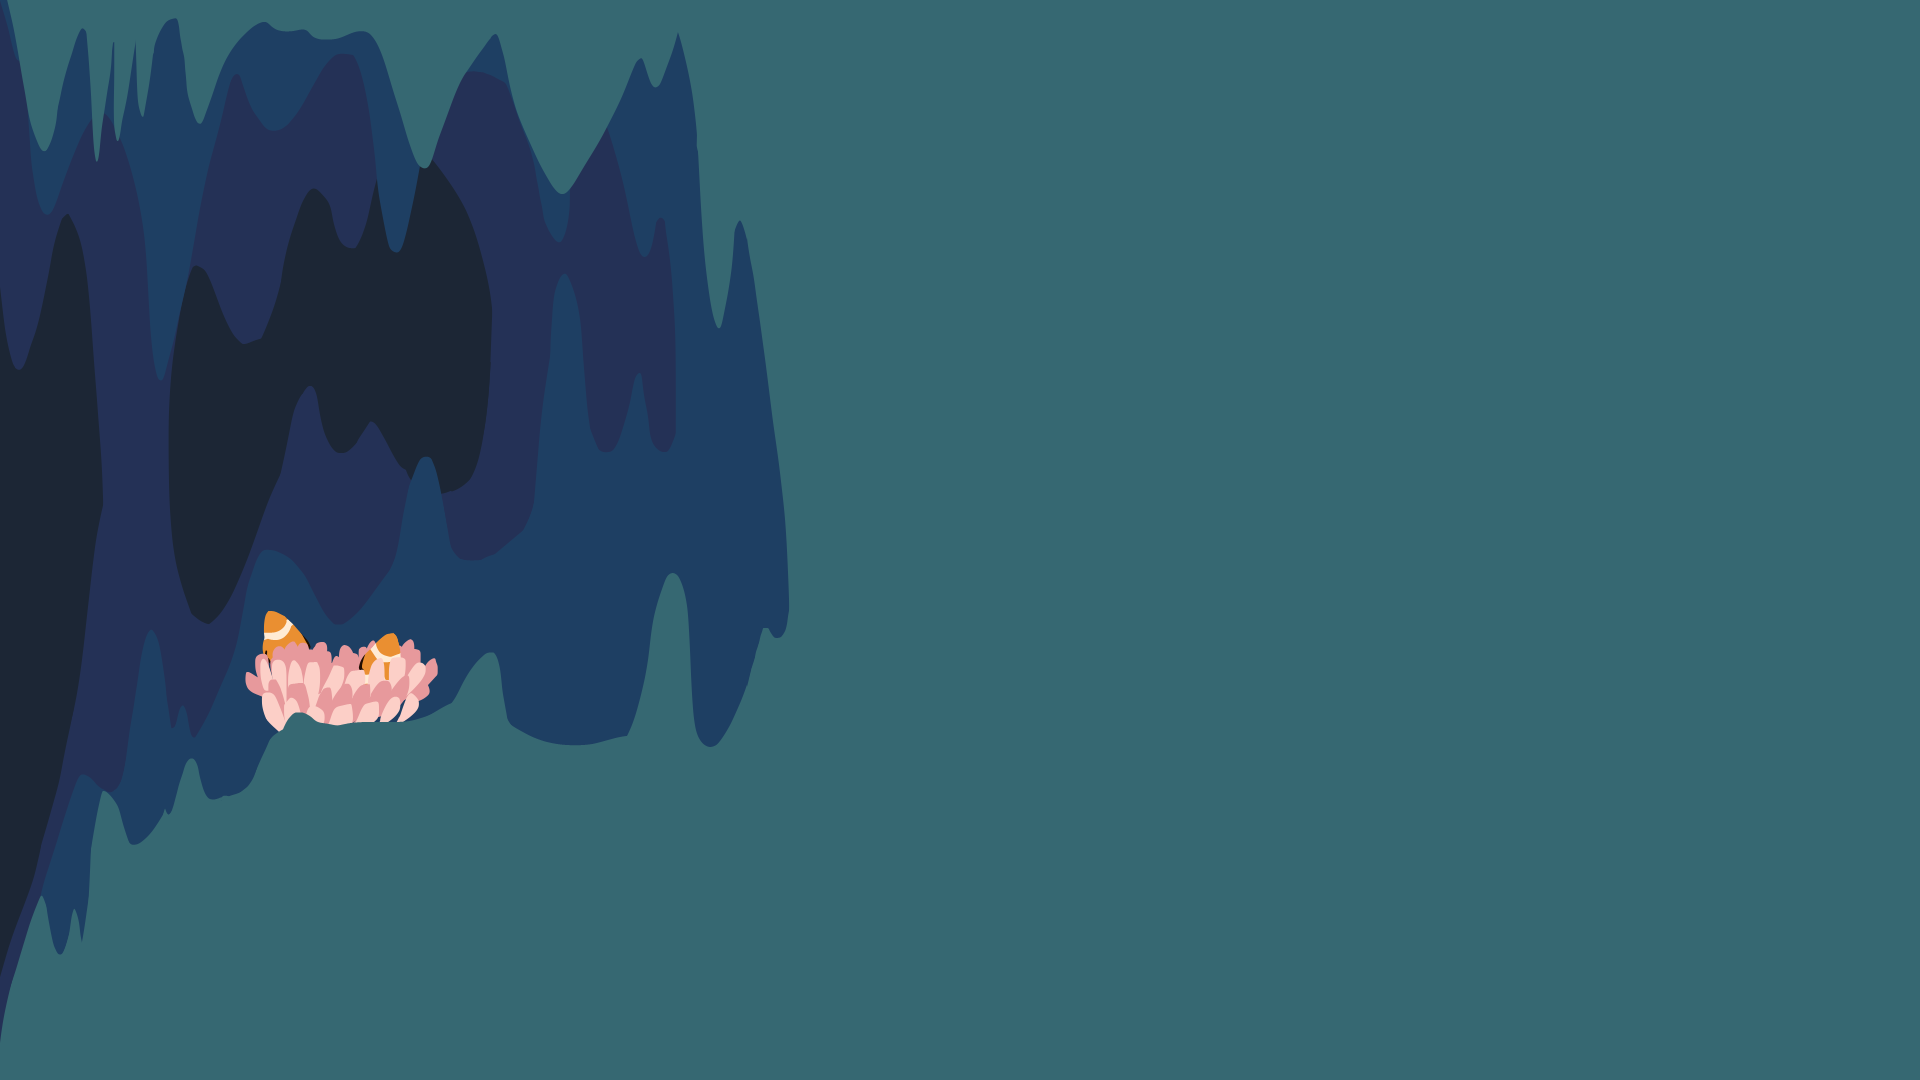
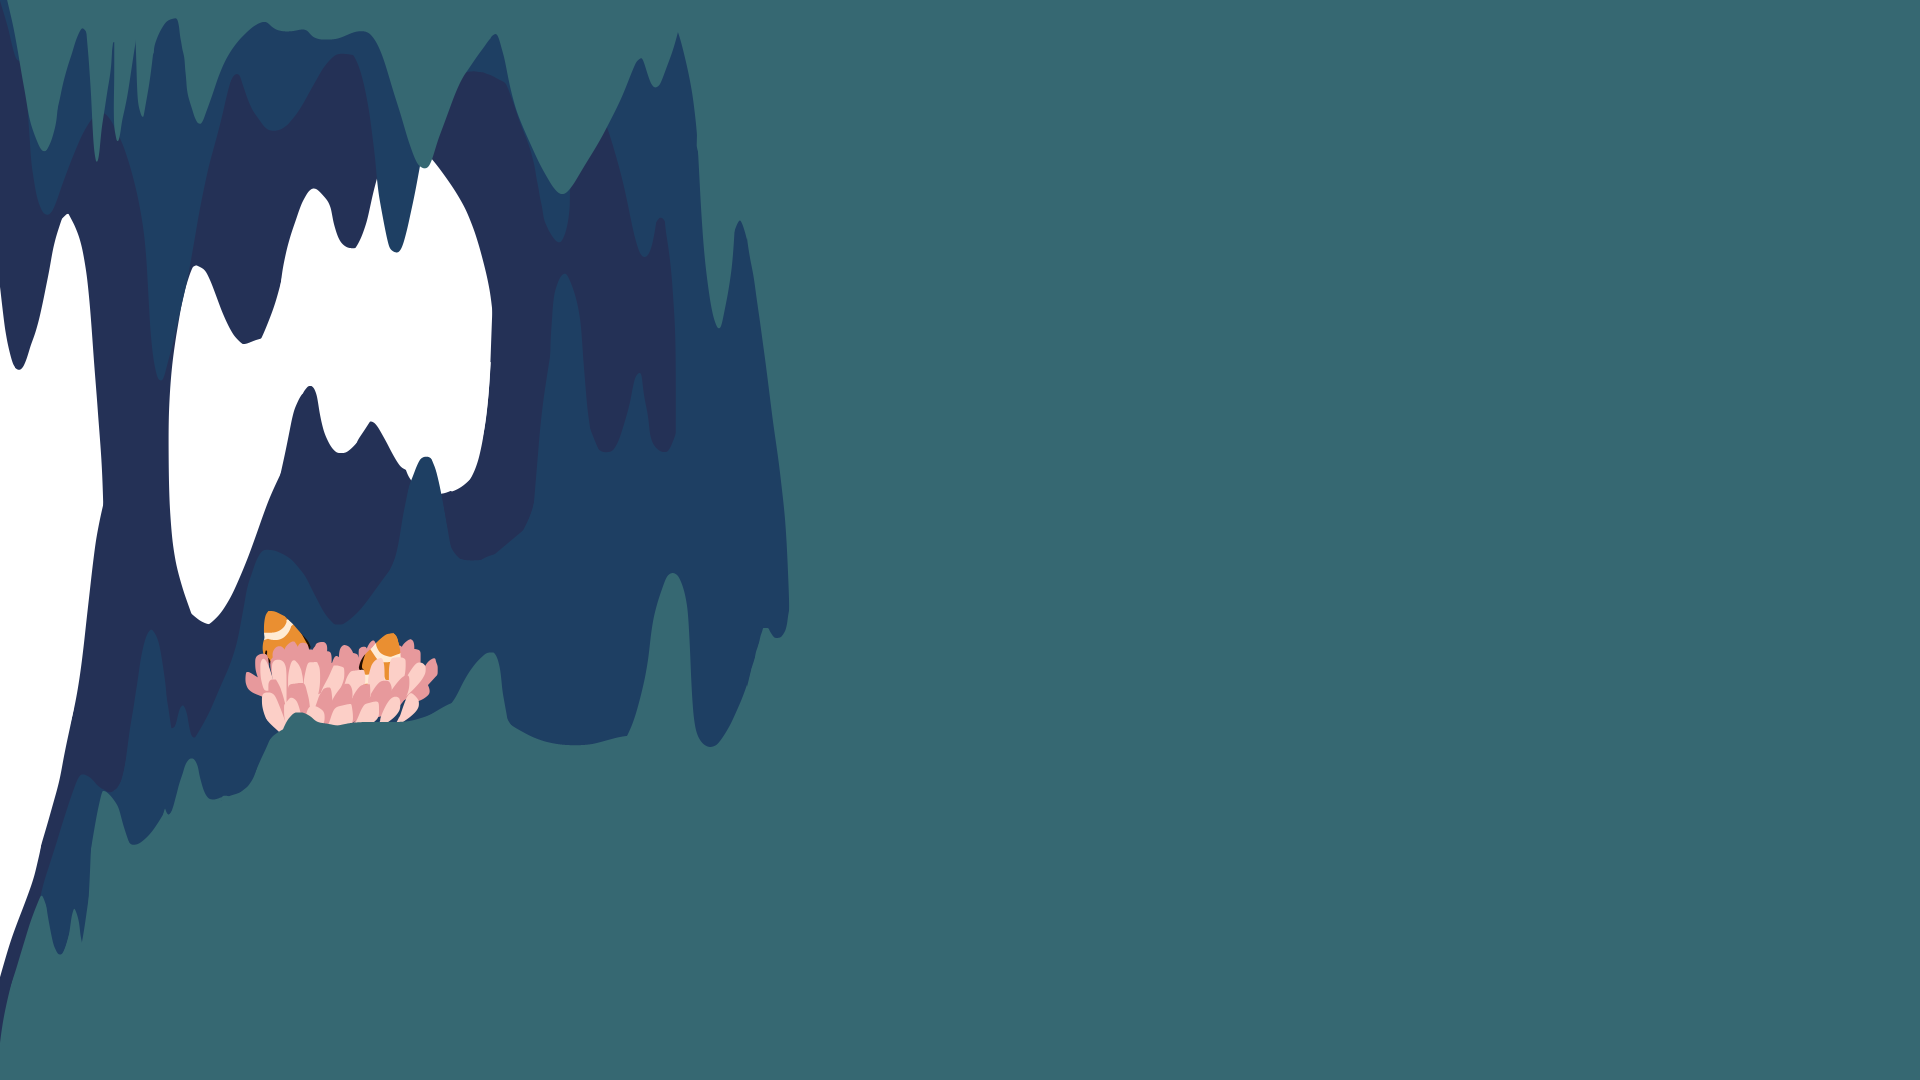
buttons

Changed region(s): [[0.0, 0.1528, 0.2812, 0.8861]]

diff --git a/src/scenes/GameScene.js b/src/scenes/GameScene.js
@@ -1,7 +1,7 @@
 import Phaser from "phaser"
 import eventsCenter from "./EventsCenter";
 import gracz from '../objects/Player.js'
-import meta from'../objects/Meta.js'
+import Meta from'../objects/Meta.js'
 
 var timer = true;
 var time = 0.0;
@@ -25,12 +25,39 @@ var txtdistance;
  */
 const createbg = (count, scene, texture, scrollFactro) => {
     let x = 0;
+    let TYPE='';
+    let value;
     for (let i = 0; i < count; ++i) {
-        const m = scene.add.image(x, scene.scale.height, texture)
+        value = Phaser.Math.Between(0, 1);
+        if(value==0)TYPE='a';
+        if(value==1)TYPE='';
+        const m = scene.add.image(x, scene.scale.height, texture+TYPE)
             .setOrigin(0, 1)
             .setScrollFactor(scrollFactro)
-
         x += m.width
+    }
+}
+/**
+ * 
+ * @param {number} count 
+ * @param {Phaser.GameObjects} GameObjects
+ *  @param {Phaser.Scene} scene
+ */
+const createob = (count, GameObjects,scene) => {
+    const width = scene.scale.width
+        const height = scene.scale.height
+    let multi=1;
+    let multi2=0;
+    let value
+    for (let i = 0; i < count; ++i) {
+        value = Phaser.Math.Between(0, 5);
+        // @ts-ignore
+        GameObjects.create(width*multi, 0, 'sG'+value);
+        // @ts-ignore
+        GameObjects.create(width*multi, height, 'sD'+value);
+        multi=multi+0.5-multi2;
+        multi2+=0.005;
+        
     }
 }
 
@@ -63,89 +90,35 @@ export default class GameScene extends Phaser.Scene{
         const width = this.scale.width
         const height = this.scale.height
         this.add.image(0, 0, 'bg').setOrigin(0, 0).setScrollFactor(0);
-        createbg(2,this, 'bg1', 0.25)
-        createbg(4,this, 'bg2', 0.5)
-        createbg(4,this, 'bg3', 0.5)
-        createbg(8,this, 'bg4', 0.9)
-        createbg(8,this, 'bg5', 0.9)
+        createbg(7,this, 'bg1', 0.25)
+        createbg(13,this, 'bg2', 0.5)
+        createbg(13,this, 'bg3', 0.5)
+        createbg(24,this, 'bg4', 0.9)
+        createbg(24,this, 'bg5', 0.9)
+        // Utworzenie przeskud.
         this.platforms = this.physics.add.staticGroup();
-        var multi=1;
-        var value
-        value = Phaser.Math.Between(0, 5);
-        this.platforms.create(width*multi, 0, 'sG'+value);
-        this.platforms.create(width*multi, height, 'sD'+value);
-        multi+=0.5;
-        value = Phaser.Math.Between(0, 5);
-        this.platforms.create(width*multi, 0, 'sG'+value);
-        this.platforms.create(width*multi, height, 'sD'+value);
-        multi+=0.5;
-        value = Phaser.Math.Between(0, 5);
-        this.platforms.create(width*multi, 0, 'sG'+value);
-        this.platforms.create(width*multi, height, 'sD'+value);
-        multi+=0.5;
-        value = Phaser.Math.Between(0, 5);
-        this.platforms.create(width*multi, 0, 'sG'+value);
-        this.platforms.create(width*multi, height, 'sD'+value);
-        multi+=0.5;
-        value = Phaser.Math.Between(0, 5);
-        this.platforms.create(width*multi, 0, 'sG'+value);
-        this.platforms.create(width*multi, height, 'sD'+value);
-        multi+=0.5;
-        value = Phaser.Math.Between(0, 5);
-        this.platforms.create(width*multi, 0, 'sG'+value);
-        this.platforms.create(width*multi, height, 'sD'+value);
-        multi+=0.5;
-        value = Phaser.Math.Between(0, 5);
-        this.platforms.create(width*multi, 0, 'sG'+value);
-        this.platforms.create(width*multi, height, 'sD'+value);
-        multi+=0.5;
-        value = Phaser.Math.Between(0, 5);
-        this.platforms.create(width*multi, 0, 'sG'+value);
-        this.platforms.create(width*multi, height, 'sD'+value);
-        multi+=0.5;
-        value = Phaser.Math.Between(0, 5);
-        this.platforms.create(width*multi, 0, 'sG'+value);
-        this.platforms.create(width*multi, height, 'sD'+value);
-        multi+=0.5;
-        value = Phaser.Math.Between(0, 5);
-        this.platforms.create(width*multi, 0, 'sG'+value);
-        this.platforms.create(width*multi, height, 'sD'+value);
-        multi+=0.5;
-        value = Phaser.Math.Between(0, 5);
-        this.platforms.create(width*multi, 0, 'sG'+value);
-        this.platforms.create(width*multi, height, 'sD'+value);
-        multi+=0.5;
-        value = Phaser.Math.Between(0, 5);
-        this.platforms.create(width*multi, 0, 'sG'+value);
-        this.platforms.create(width*multi, height, 'sD'+value);
-        multi+=0.5;
-        value = Phaser.Math.Between(0, 5);
-        this.platforms.create(width*multi, 0, 'sG'+value);
-        this.platforms.create(width*multi, height, 'sD'+value);
-        multi+=0.5;
-        value = Phaser.Math.Between(0, 5);
-        this.platforms.create(width*multi, 0, 'sG'+value);
-        this.platforms.create(width*multi, height, 'sD'+value);
-        multi+=0.5;
-        value = Phaser.Math.Between(0, 5);
-        this.platforms.create(width*multi, 0, 'sG'+value);
-        this.platforms.create(width*multi, height, 'sD'+value);
+        // @ts-ignore
+        createob(65,this.platforms,this)
+     
+        //meta
+        this.finish = new Meta(this);
+        this.finish.setPosition(24 * width-width/6, height/2);
+
         // Utworzenie gracza.
         this.player = new gracz(this);
         this.player.setOrigin(0.65, 0.5);
         this.player.setPosition(width / 2, height / 2);
         this.player.setBounce(0);
-
+        this.player.setSize(width / 25, height / 25)
         this.player.setCollideWorldBounds(true);
+        
+
         // @ts-ignore
-        this.player.body.setBoundsRectangle(new Phaser.Geom.Rectangle(0, 0, 8 * width, height));
+        this.player.body.setBoundsRectangle(new Phaser.Geom.Rectangle(0, 0, 24 * width, height));
         // Uruchomienie śledzenia.
-        this.cameras.main.setBounds(0, 0, 40800, 0);
+        this.cameras.main.setBounds(0, 0, 24 * width, 0);
         this.cameras.main.startFollow(this.player);
         this.cameras.main.followOffset.set(-width/3, 0);
-
-        this.finish = new meta(this);
-        this.finish.setPosition(-2000, 500);
   
         // @ts-ignore
         text = this.add.text(40, 90, 'time: 0', { fontSize: 46, fontFamily: "Comic Sans MS", color: '#fff'}).setScrollFactor(0);
@@ -161,16 +134,18 @@ export default class GameScene extends Phaser.Scene{
 
     update() {
         if (this.player.active) this.player.update(this.cursors);
+       
         if (koliz == true) {
             koliz = false
             this.physics.add.overlap(this.player, this.platforms, this.player.hit);
             this.physics.add.overlap(this.player, this.platforms, this.hp);
         }
+        
         if(win==true){
             this.eventYouWon();
         }
-        if(lose==true){
-            this.eventYouLost();
+            if(lose==true){
+                this.eventYouLost();
         }
         if (timer == true) {
             timer = false
@@ -189,20 +164,22 @@ export default class GameScene extends Phaser.Scene{
         text.setText('time: ' + time);
     }
     hp() {
-        eventsCenter.emit('play-Hurt');
-        colision=true;
-        if(hpile==3){
-            image3.destroy()
-            image3 = null
+        if(colision==false){
+            eventsCenter.emit('play-Hurt');
+        if(hpile==1){
+            image.destroy()
+            image = null
+            lose=true;
         }else if(hpile==2){
             image2.destroy()
          image2 = null
         }else{
-            image.destroy()
-            image = null
-            lose=true;
+            image3.destroy()
+            image3 = null
         }
         hpile-=1
+    }
+        colision=true;
         setTimeout(() =>  colision = false, 500)
     }
     koniec(){
@@ -216,16 +193,12 @@ export default class GameScene extends Phaser.Scene{
     }
 
     eventYouWon(){
-        this.scene.launch('youWonScene');
-        eventsCenter.emit('emit-time', time);
-        //eventsCenter.emit('emit-distance', distance);
-        this.scene.stop();
+        this.scene.launch('gameOverScene');
+        this.scene.pause();
     }
 
     eventYouLost(){
-        this.scene.launch('youLostScene');
-        eventsCenter.emit('emit-time', time);
-        //eventsCenter.emit('emit-distance', distance);
+        this.scene.launch('gameOverScene');
         this.scene.pause();
     }
 

diff --git a/src/scenes/GameOverScene.js b/src/scenes/GameOverScene.js
@@ -3,7 +3,6 @@ import eventsCenter from "./EventsCenter";
 
 var yourTime;
 var yourDistance;
-//your best time maybe?
 
 export default class GameOverScene extends Phaser.Scene{
 
@@ -20,16 +19,9 @@ export default class GameOverScene extends Phaser.Scene{
     create() {
       const width=this.scale.width
       const height=this.scale.height
-      var yourTime = 0;
-      var yourDistance = 0;
 
-
-      var credits = 'YOU LOST'
-
-      this.add.text( width/2, 200, credits,  { fontSize: '30px', fontFamily: "Comic Sans MS" })
-
-      const buttonRestart = this.add.image( width/2, height/2, 'buttonRS');
-      const buttonMenu = this.add.image( width/2, height/2+190, 'buttonM');
+      const buttonRestart = this.add.image( width/2, height/2+190, 'buttonRS');
+      const buttonMenu = this.add.image( width/2, height/2+380, 'buttonM');
 
       const buttons = [
           buttonRestart,
@@ -44,23 +36,6 @@ export default class GameOverScene extends Phaser.Scene{
       buttonRestart.on('pointerup', () => this.backToGame() );
       buttonMenu.on('pointerup', () => this.backToMenu() );
       
-      // @ts-ignore
-      eventsCenter.once('emit-time', time => this.test(time), this);
-
-      this.events.on(Phaser.Scenes.Events.SHUTDOWN, () => {
-          // @ts-ignore
-          eventsCenter.off('emit-time', time => this.test(time), this);
-      })
-
-      // @ts-ignore
-      eventsCenter.once('emit-distance', distance => this.test(distance), this)
-
-      this.events.on(Phaser.Scenes.Events.SHUTDOWN, () => {
-          // @ts-ignore
-          eventsCenter.off('emit-distance', distance => yourDistance = distance, this);
-      })
-
-
     
     }
 
@@ -77,12 +52,6 @@ export default class GameOverScene extends Phaser.Scene{
       this.scene.stop('gameScene');
       this.scene.start('gameScene');
       
-
-    }
-
-    test(time){
-      yourTime = time;
-      console.log(yourTime);
 
     }
 

diff --git a/src/scenes/LoadScene.js b/src/scenes/LoadScene.js
@@ -16,6 +16,11 @@ export default class LoadScene extends Phaser.Scene{
         this.load.image('bg3', '/images/bg3.png');
         this.load.image('bg4', '/images/bg4.png');
         this.load.image('bg5', '/images/bg5.png');
+        this.load.image('bg1a', '/images/bg1a.png');
+        this.load.image('bg2a', '/images/bg2a.png');
+        this.load.image('bg3a', '/images/bg3a.png');
+        this.load.image('bg4a', '/images/bg4a.png');
+        this.load.image('bg5a', '/images/bg5a.png');
         this.load.image('fish', '/images/fish.png');
         this.load.image('sG0', '/images/stal7.png');
         this.load.image('sG1', '/images/stal8.png');
@@ -31,6 +36,7 @@ export default class LoadScene extends Phaser.Scene{
         this.load.image('sD5', '/images/stal1.png');
 
 
+        this.load.image('end', '/images/end.png');  
         this.load.image('end1', '/images/end1.png');
         this.load.image('end2', '/images/end2.png');
         this.load.image('end3', '/images/end2a.png');

diff --git a/src/game.js b/src/game.js
@@ -7,6 +7,7 @@ import OptionsScene from "./scenes/OptionsScreen";
 import MusicScene from "./scenes/MusicScene";
 import YouLostScene from "./scenes/YouLostScene";
 import YouWonScene from "./scenes/YouWonScene";
+import GameOverScene from "./scenes/GameOverScene";
 
 export default new Phaser.Game({
     type: Phaser.AUTO,
@@ -21,8 +22,9 @@ export default new Phaser.Game({
         arcade: {
             gravity:{
                 y: 0
-            },
+            },//debug: true
         }
+        
     },
     scene: [
         LoadScene,
@@ -33,7 +35,8 @@ export default new Phaser.Game({
         OptionsScene,
         MusicScene,
         YouLostScene,
-        YouWonScene
+        YouWonScene,
+        GameOverScene
     ]
 
 });

diff --git a/src/scenes/YouLostScene.js b/src/scenes/YouLostScene.js
@@ -23,9 +23,9 @@ export default class YouLostScene extends Phaser.Scene{
       var yourDistance = 0;
 
 
-      var credits = 'YOU LOST'
+      //var credits = 'YOU LOST'
 
-      this.add.text( width/2, 200, credits,  { fontSize: '30px', fontFamily: "Comic Sans MS" })
+      //this.add.text( width/2, 200, credits,  { fontSize: '30px', fontFamily: "Comic Sans MS" })
 
       const buttonRestart = this.add.image( width/2, height/2, 'buttonRS');
       const buttonMenu = this.add.image( width/2, height/2+190, 'buttonM');

diff --git a/src/helpers/AssetsKeys.js b/src/helpers/AssetsKeys.js
@@ -12,5 +12,5 @@ export default {
     stal9:'sD3',
     stal10:'sD4',
     stal11:'sD5', 
-    finish:'meta'  
+    finish:'end'  
 };
